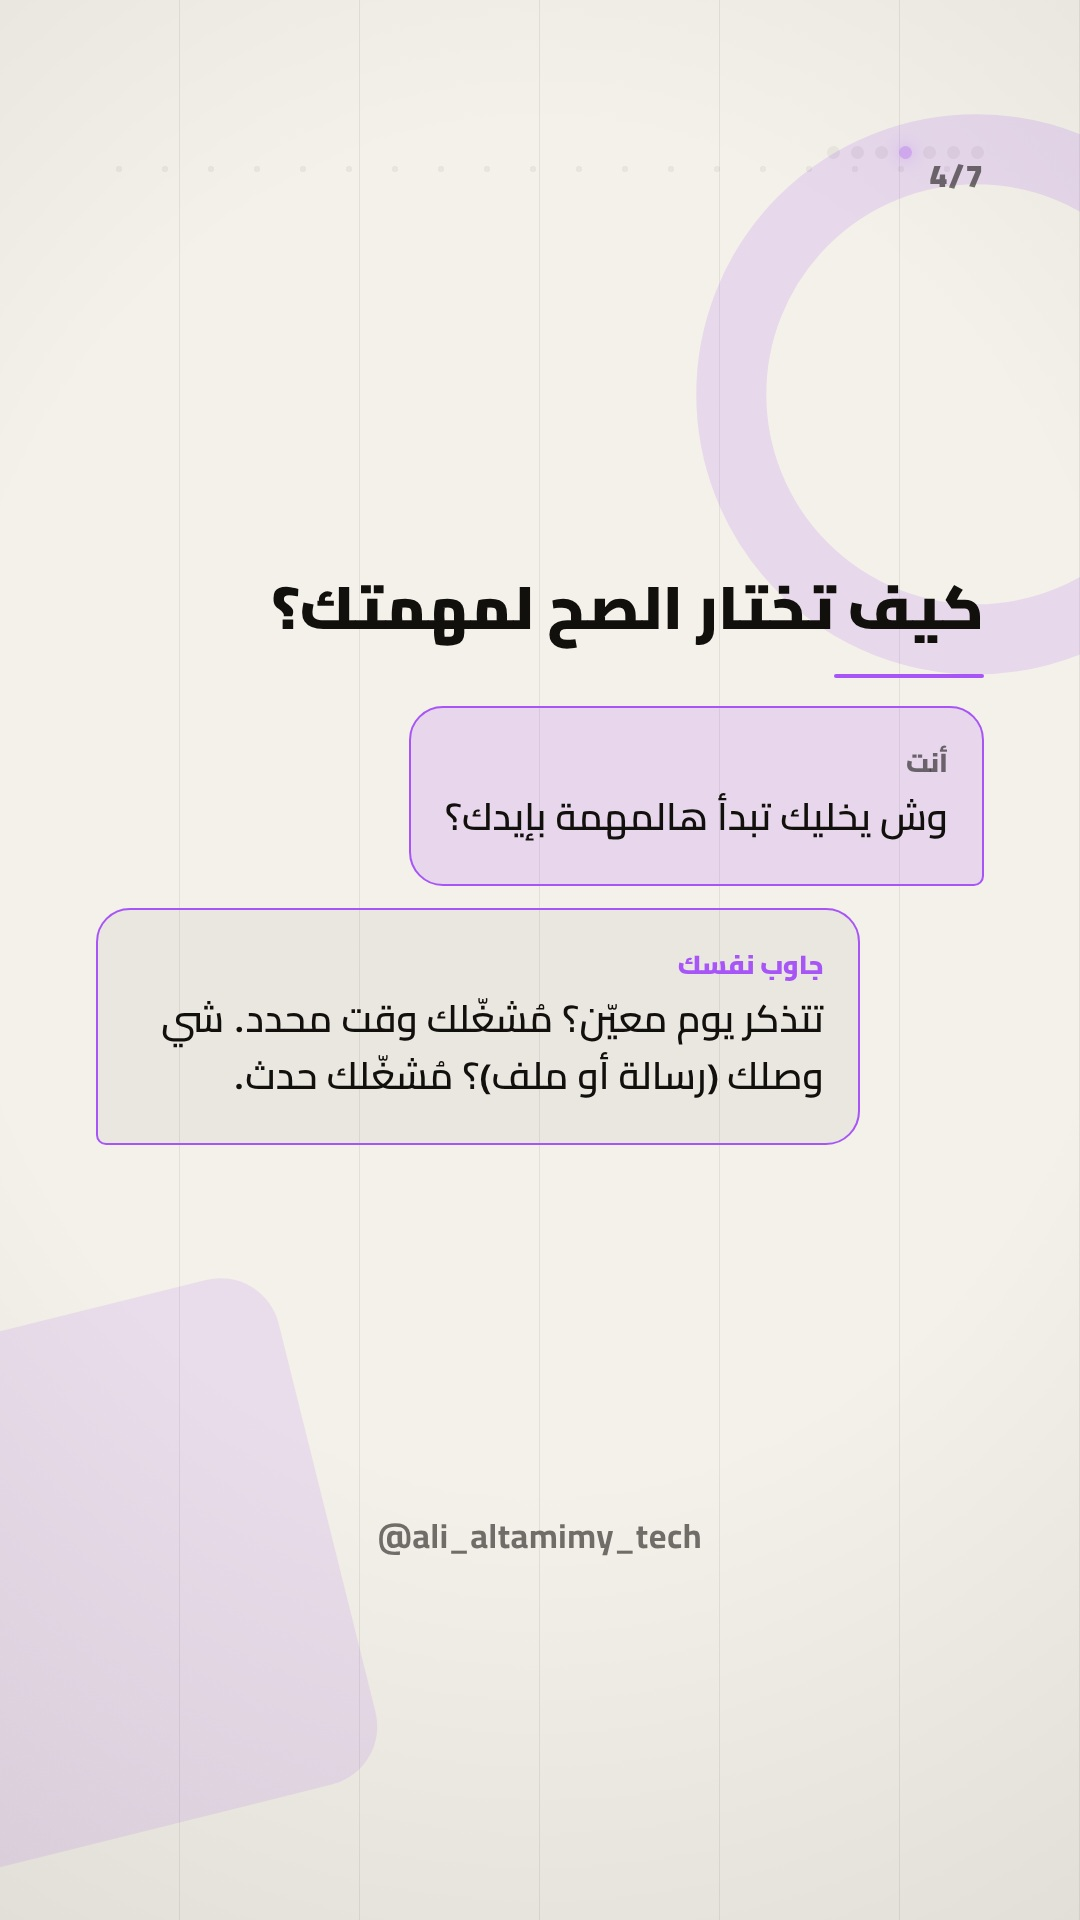
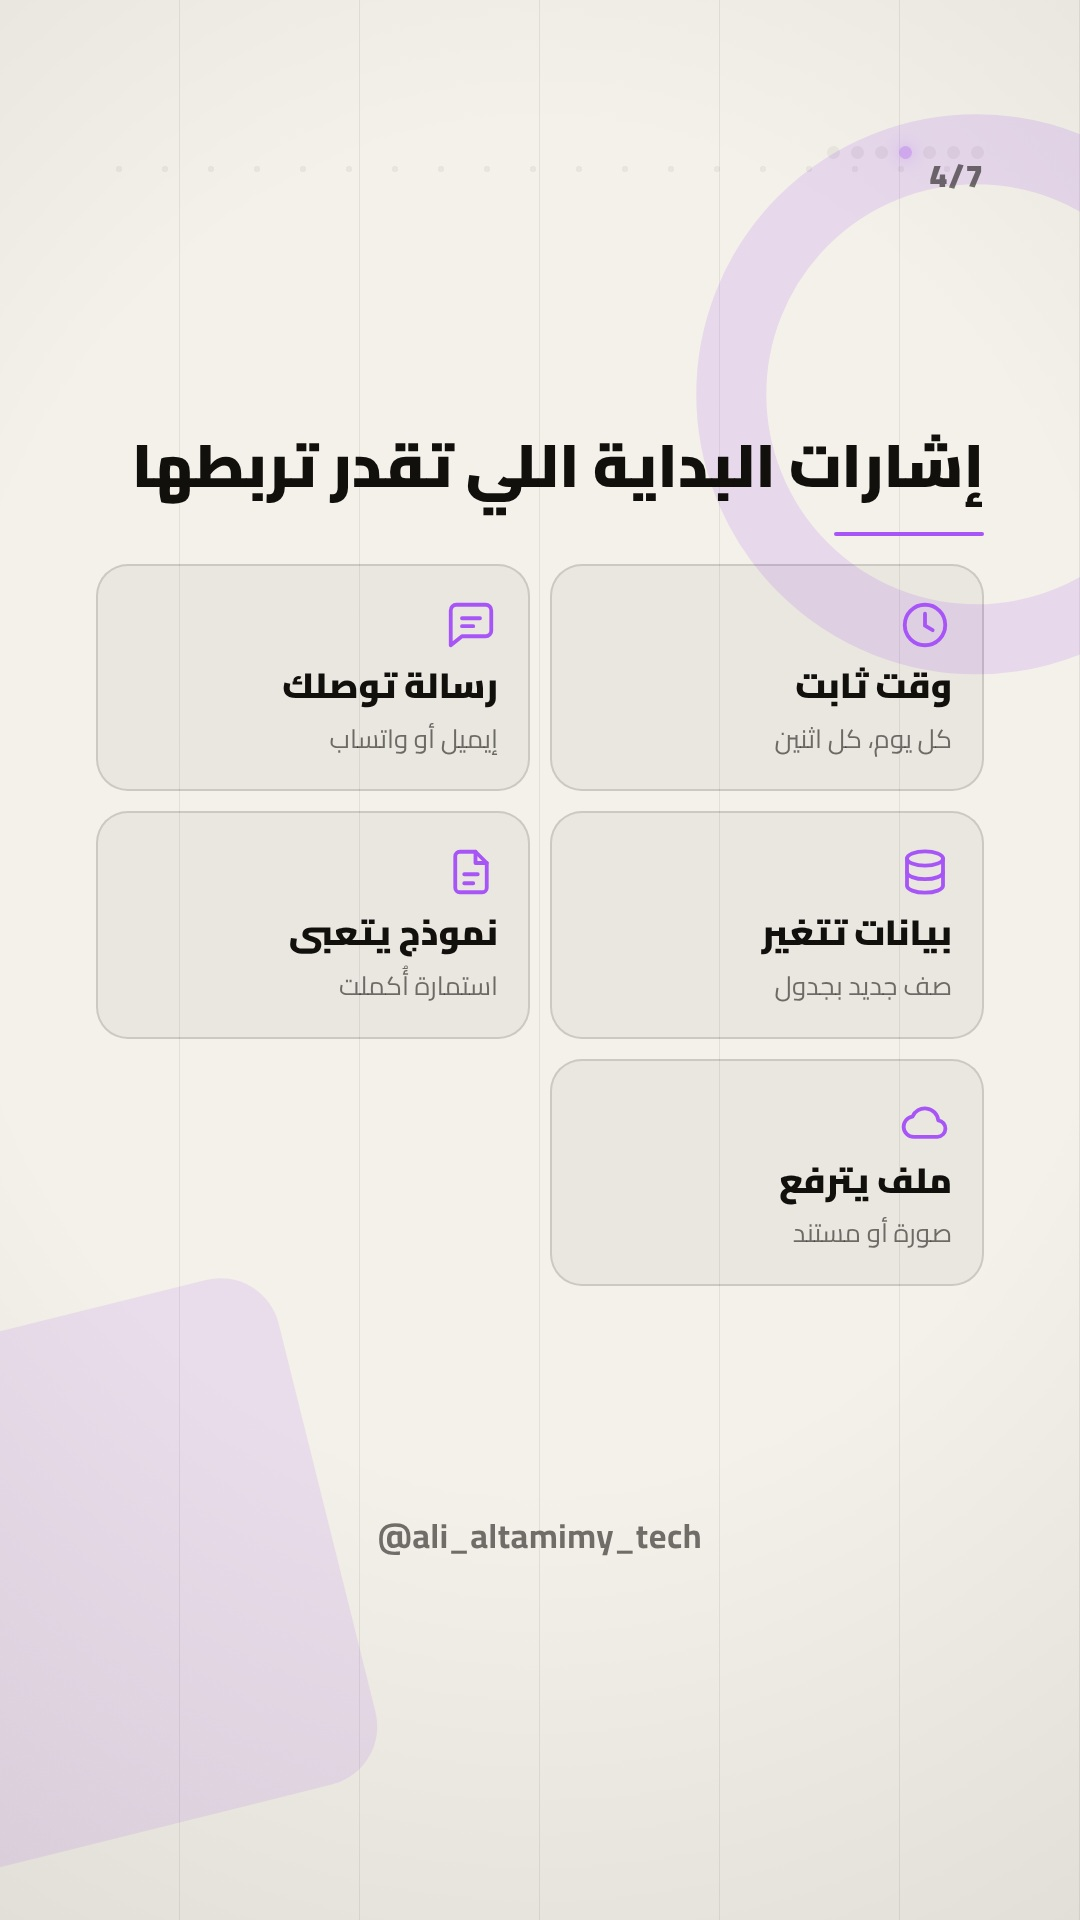
كاروسيل 2026-09-16: إعادة كتابة كاملة بمنهج مختلف (طلب المستخدم)
المستخدم قال إنه لسا غير مفهوم بعد محاولتين للتوضيح، وأضاف إن الموضوع
نفسه يمكن مو مهم. بدل الاستمرار بتلميع نفس الصياغة، أعدت البناء بالكامل:

- تخليت عن مصطلح "مُشغّل" كليًا (حتى بعد تعريفه ما زال يبعّد القارئ
  العادي) واستبدلته بعبارة عامية: "إشارة البداية".
- بدل التصنيف المجرد، الكاروسيل الآن يبني حول مثال واحد حقيقي بنتيجة
  ملموسة: عميل طلب الساعة ٢:٠٥ وما وصله تأكيد إلا الساعة ٣ بسبب فحص
  دوري بدل لحظة الحدث.
- الترتيب الجديد: مشكلة → رقم صادم (٥٥ دقيقة) → مقارنة مباشرة →
  قائمة إشارات مرجعية → مثال تطبيقي → الخطأ الشائع → دعوة للفعل.

Claude-Session: https://claude.ai/code/session_01EgEZRcQa5qrBxqbudDi5cV

Changed region(s): [[0.1222, 0.2188, 0.9167, 0.6562]]

diff --git a/output/2026-09-16/lesson.md b/output/2026-09-16/lesson.md
@@ -1,47 +1,42 @@
-# اليوم ٢١ — المُشغّلات الخمسة الأساسية (نسخة أوضح)
+# اليوم ٢١ — ليش أتمتتك تشتغل بالوقت الغلط (نسخة مُعاد كتابتها بالكامل)
 
 **التصنيف:** أتمتة · **الجمهور:** الجميع
 
-## الفكرة باختصار
+## لماذا أعيد الكتابة
+النسختان السابقتان استخدمتا مصطلح "مُشغّل" حتى بعد تعريفه — والقارئ العادي
+ما يهضم مصطلح تقني بصيغة رسمية بسهولة، مهما عرّفته. هذي النسخة تتجنب
+المصطلح كليًا وتستبدله بعبارة عامية واضحة: **"إشارة البداية"**. وبدل
+التصنيف المجرد، تبدأ بمشكلة حقيقية ونتيجتها الملموسة.
 
-أي أتمتة ما تشتغل من فراغ — لازم شي معيّن يحصل الأول عشان تبدأ.
-هذا الشي اسمه **المُشغّل**. اليوم نشوف الخمسة أنواع اللي تغطي أغلب المهام.
+## المشكلة (نقطة البداية)
+متجر أونلاين ربط الأتمتة بجدولة "تفحص كل ساعة" تدوّر على طلبات جديدة.
+عميل طلب الساعة ٢:٠٥ — وما وصله تأكيد الطلب إلا الساعة ٣ لما فحصت
+الأتمتة الجدول. لو ربطوها بدل كذا بـ"لحظة وصول الطلب نفسها"،
+كان وصله التأكيد خلال ثواني.
 
-## شنو يعني "مُشغّل"؟ (بمثال ملموس)
+## الفكرة
+كل أتمتة تحتاج **إشارة بداية** — شي معيّن يحصل فيخلي الأتمتة تشتغل.
+المشكلة مو في الأتمتة نفسها، المشكلة في اختيار الإشارة الغلط.
 
-تخيل جرس الباب: أي حد يدق الجرس، انت تفتح الباب على طول — بدون ما تفكر.
-المُشغّل نفس الفكرة بالضبط: شي معيّن يحصل، والأتمتة تتحرك فورًا من نفسها.
+## المقارنة
+- **فحص دوري (كل ساعة):** تأخير يوصل ٥٥ دقيقة، والعميل يستنى بدون داعي.
+- **لحظة الحدث:** الأتمتة تشتغل فور ما يوصل الطلب — صفر تأخير.
 
-## الخمسة بالتفصيل
+## إشارات البداية الشائعة
+١. **وقت ثابت** — كل يوم، كل اثنين، أول الشهر.
+٢. **رسالة توصلك** — إيميل أو واتساب.
+٣. **بيانات تتغير** — صف جديد أُضيف لجدول.
+٤. **نموذج يتعبى** — استمارة أُكملت.
+٥. **ملف يترفع** — صورة أو مستند جديد.
 
-**١. وقت محدد** — كل يوم الساعة ٧، كل اثنين، أول كل شهر. مثالها: تقرير
-أسبوعي يرسل نفسه بدون ما تفتح الجدول.
-
-**٢. رسالة جديدة** — إيميل وصل، أو رسالة واتساب. مثالها: رد تلقائي فوري
-قبل ما توصل لجهازك حتى.
-
-**٣. صف جديد بجدول** — بيانات أُضيفت لجدول جوجل أو نظام. مثالها: تنبيه
-فوري لما يوصل طلب عميل جديد.
-
-**٤. نموذج مُعبّأ** — أحد أكمل استمارة (طلب توظيف، شكوى، حجز). مثالها:
-توجيه الطلب للقسم الصح تلقائيًا.
-
-**٥. ملف مرفوع** — صورة أو ملف انرفع لمجلد. مثالها: صورة فاتورة تتحول
-لأرقام بجدول بدون ما تكتبها يدك.
-
-## كيف تختار الصح؟
-
-اسأل نفسك سؤال واحد: **وش يخليك تبدأ هالمهمة يدويًا؟**
-- لو جوابك "أتذكر كل يوم معيّن" → مُشغّلك وقت محدد.
-- لو جوابك "شي وصلني" (إيميل، طلب، ملف) → مُشغّلك حدث.
+## مثال كامل
+صورة فاتورة تترفع (هذي إشارة البداية) ← الأتمتة تستخرج البيانات منها
+تلقائيًا ← تحفظها بجدول بدون ما تكتبها يدك.
 
 ## الخطأ الشائع
-
-تختار "وقت محدد" لمهمة كانت تحتاج "حدث". مثال: تخلي الأتمتة تفحص
-الجدول كل ساعة تدوّر على صف جديد، بدل ما تخليها تشتغل *فورًا* لحظة ما
-يوصل الصف. النتيجة: تأخير وموارد مهدورة بلا داعي.
+تربط المهمة بـ"وقت ثابت" وهي أصلاً تحتاج "لحظة حدث". النتيجة: تأخير
+وموارد مهدورة على فحص ما فيه داعي له.
 
 ## طبّق اليوم
-
-فكّر في مهمة تسويها بسبب حدث معيّن، وحدد أي من الخمسة يناسبها.
-هذا أول قرار في بناء أي أتمتة.
+فكّر في مهمة عندك تتأخر — اسأل: هل إشارة بدايتها وقت ثابت، ولا كان
+الأصح تربطها بلحظة حدث معيّن؟
